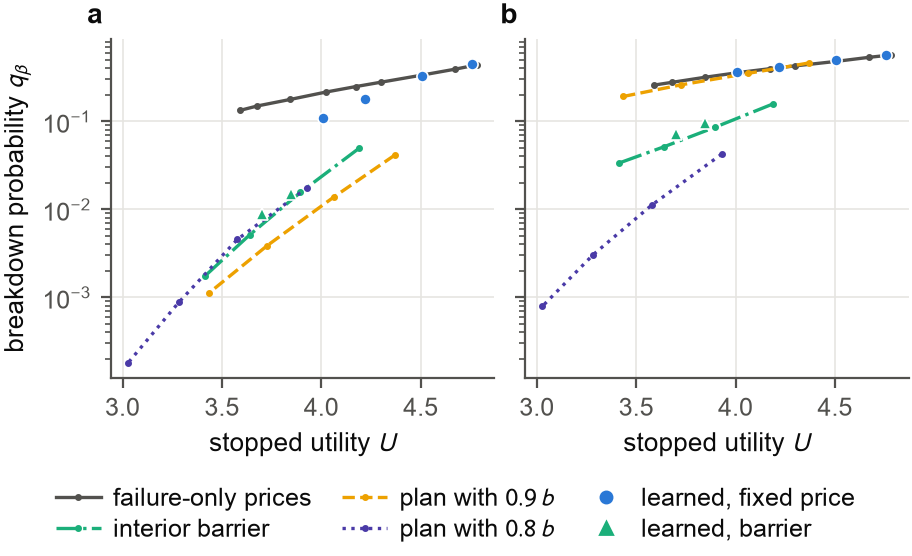
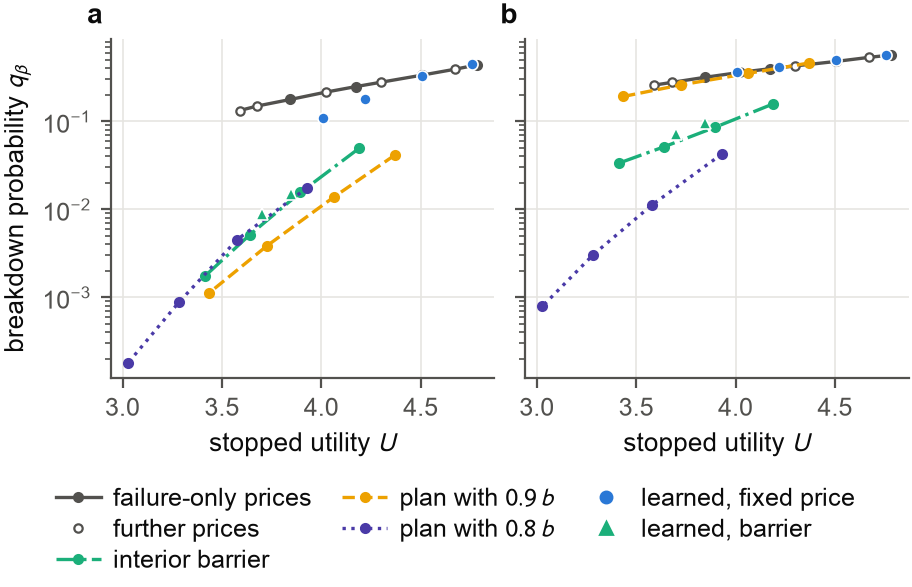
Wear-allowance figure for a smaller true allowance: filled dots mark the four prices that all curves share, open dots the five further prices of the failure-only curve

diff --git a/wear-allowance/analyze_v41.py b/wear-allowance/analyze_v41.py
@@ -30,7 +30,7 @@ V38 = ROOT.parent / "wear-allowance"
 sys.path.insert(0, str(ROOT.parent / "lib"))
 sys.path.insert(0, str(V38))
 sys.path.insert(0, str(ROOT))
-from plotstyle import PAL, TEXT2, MUTED, TEXTW, FS, LS, MK, panel_label, legend_below, save  # noqa: E402
+from plotstyle import PAL, TEXT2, MUTED, SURFACE, TEXTW, FS, LS, MK, panel_label, legend_below, save  # noqa: E402
 import matplotlib.pyplot as plt  # noqa: E402
 from matplotlib.lines import Line2D  # noqa: E402
 from model import Model, simulate  # noqa: E402
@@ -320,7 +320,14 @@ def fig_margin(bench, summary):
             U_old = [r["grid"]["U"] if r["grid"] else r["nominal"]["U"] for r in rows]
             y = [max(r[key]["risk"], 1e-4) for r in rows]
             before += [U_old, y]; after += [U, y]
-            ax.plot(U, y, color=col, ls=ls, marker=".", ms=3, label=name)
+            # every curve carries a filled dot at the four prices that all families share; the failure-only
+            # family is computed at five further prices, which are drawn as open dots
+            shared = [r["m"] in (0.3, 1, 3, 10) for r in rows]
+            ax.plot(U, y, color=col, ls=ls)
+            ax.plot([u for u, k in zip(U, shared) if k], [v for v, k in zip(y, shared) if k], color=col, ls="none", marker="o", ms=3)
+            ax.plot([u for u, k in zip(U, shared) if not k], [v for v, k in zip(y, shared) if not k], color=col, ls="none",
+                    marker="o", ms=3, mfc=SURFACE, mew=0.8)
+            ax.plot([], [], color=col, ls=ls, marker="o", ms=3, label=name)
         DIGESTS[f"wear-margin/{lab} exact curves"] = dict(before=digest(*before), after=digest(*after), changed=True)
         pts = []
         for arm, s in summary.items():
@@ -334,6 +341,8 @@ def fig_margin(bench, summary):
     handles, labels = axes[0].get_legend_handles_labels()
     handles += [Line2D([], [], marker="o", ls="none", color=C_FIXED, ms=4), Line2D([], [], marker="^", ls="none", color=C_BARRIER, ms=4)]
     labels += ["learned, fixed price", "learned, barrier"]
+    handles.insert(1, Line2D([], [], marker="o", ls="none", color=TEXT2, ms=3, mfc=SURFACE, mew=0.8))
+    labels.insert(1, "further prices")
     legend_below(fig, handles, labels, ncol=3)
     save(fig, "wear-margin-v41", ROOT)
 
